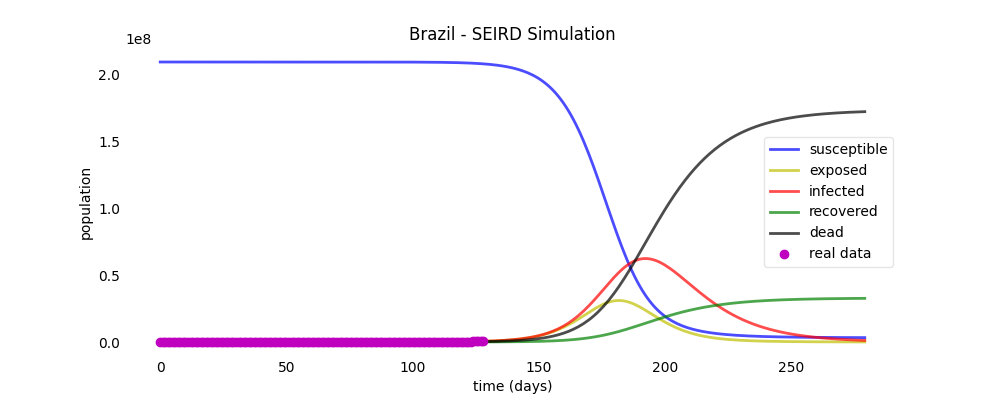
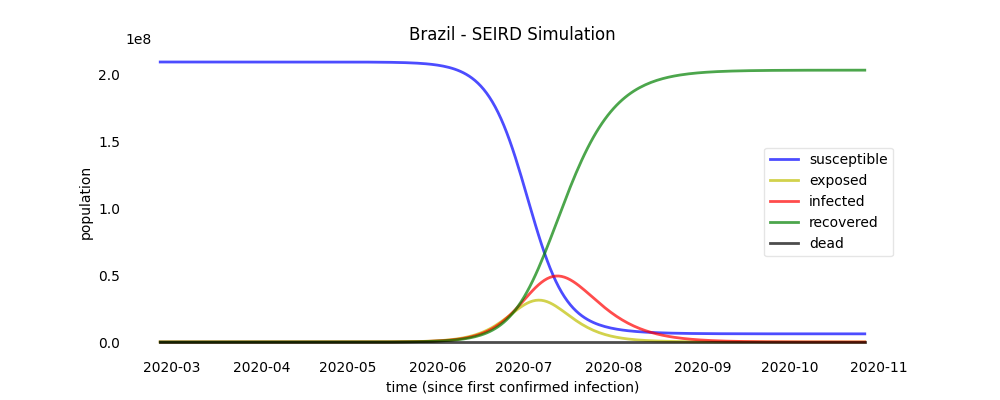
date time plot

diff --git a/covid_seird/country_covid_seird.py b/covid_seird/country_covid_seird.py
@@ -43,6 +43,7 @@ class CountryCovidSeird:
             data={"confirmed": list(confirmed), "deaths": list(deaths)},
             index=index,
         )
+        self.__data = self.__data[self.__data["confirmed"] > 0]
 
     @classmethod
     def code_search(cls, country_string: str) -> dict:
@@ -151,12 +152,10 @@ class CountryCovidSeird:
         """Plot fit curve."""
         if self.__fit_return is not None:
 
-            x = np.linspace(
-                0.0, len(self.data["confirmed"]), len(self.data["confirmed"])
-            )
+            x = pd.to_datetime(self.data.index)
 
             plt.figure(figsize=(10, 4))
-            plt.plot(x, self.data["confirmed"])
+            plt.plot_date(x, self.data["confirmed"], "-")
             plt.plot(x, self.best_fit)
             plt.legend(
                 [
@@ -165,7 +164,7 @@ class CountryCovidSeird:
                 ]
             )
             plt.title("{} - SEIRD model fit".format(self.name))
-            plt.xlabel("time (days since first confirmed infection)")
+            plt.xlabel("time (since first confirmed infection)")
             plt.ylabel("population")
             if len(filename) != 0:
                 plt.savefig("{}.png".format(filename))
@@ -198,15 +197,17 @@ class CountryCovidSeird:
     def plot_simulation(self, filename: str = ""):
         """Plot SEIRD simulation curves."""
         if self.__simulation_return is not None:
-            x = np.linspace(
-                0.0,
-                len(self.curves["susceptible"]),
-                len(self.curves["susceptible"]),
+
+            real_data = pd.to_datetime(self.data.index)
+            x = pd.date_range(
+                start=real_data[0], periods=len(self.curves["susceptible"]),
             )
+
             f, ax = plt.subplots(1, 1, figsize=(10, 4))
-            ax.plot(
+            ax.plot_date(
                 x,
-                list(map(
+                list(
+                    map(
                         lambda x: x * self.population,
                         self.curves["susceptible"],
                     )
@@ -216,25 +217,21 @@ class CountryCovidSeird:
                 linewidth=2,
                 label="susceptible",
             )
-            ax.plot(
+            ax.plot_date(
                 x,
                 list(
-                    map(
-                        lambda x: x * self.population,
-                        self.curves["exposed"],
-                    )
+                    map(lambda x: x * self.population, self.curves["exposed"],)
                 ),
                 "y",
                 alpha=0.7,
                 linewidth=2,
                 label="exposed",
             )
-            ax.plot(
+            ax.plot_date(
                 x,
                 list(
                     map(
-                        lambda x: x * self.population,
-                        self.curves["infected"],
+                        lambda x: x * self.population, self.curves["infected"],
                     )
                 ),
                 "r",
@@ -242,7 +239,7 @@ class CountryCovidSeird:
                 linewidth=2,
                 label="infected",
             )
-            ax.plot(
+            ax.plot_date(
                 x,
                 list(
                     map(
@@ -255,28 +252,17 @@ class CountryCovidSeird:
                 linewidth=2,
                 label="recovered",
             )
-            ax.plot(
+            ax.plot_date(
                 x,
-                list(
-                    map(
-                        lambda x: x * self.population,
-                        self.curves["dead"],
-                    )
-                ),
+                list(map(lambda x: x * self.population, self.curves["dead"],)),
                 "k",
                 alpha=0.7,
                 linewidth=2,
                 label="dead",
             )
-            ax.plot(
-                list(self.data["confirmed"]),
-                "mo",
-                linewidth=3,
-                label="real data",
-            )
 
             ax.set_ylabel("population")
-            ax.set_xlabel("time (days)")
+            ax.set_xlabel("time (since first confirmed infection)")
 
             ax.yaxis.set_tick_params(length=0)
             ax.xaxis.set_tick_params(length=0)
@@ -285,6 +271,7 @@ class CountryCovidSeird:
             legend.get_frame().set_alpha(0.5)
             for spine in ("top", "right", "bottom", "left"):
                 ax.spines[spine].set_visible(False)
+
             plt.title("{} - SEIRD Simulation".format(self.name))
             if len(filename) != 0:
                 plt.savefig("{}.png".format(filename))

diff --git a/setup.py b/setup.py
@@ -1,4 +1,4 @@
-from setuptools import setup, find_packages #NOQA
+from setuptools import setup, find_packages  # NOQA
 
 with open("README.md", "r") as fh:
     long_description = fh.read()
@@ -20,12 +20,12 @@ setup(
         "Operating System :: OS Independent",
     ],
     install_requires=[
-        'COVID19Py',
-        'lmfit',
-        'requests',
-        'pandas',
-        'scipy',
-        'matplotlib',
+        "COVID19Py",
+        "lmfit",
+        "requests",
+        "pandas",
+        "scipy",
+        "matplotlib",
     ],
     python_requires=">=3.6",
 )
